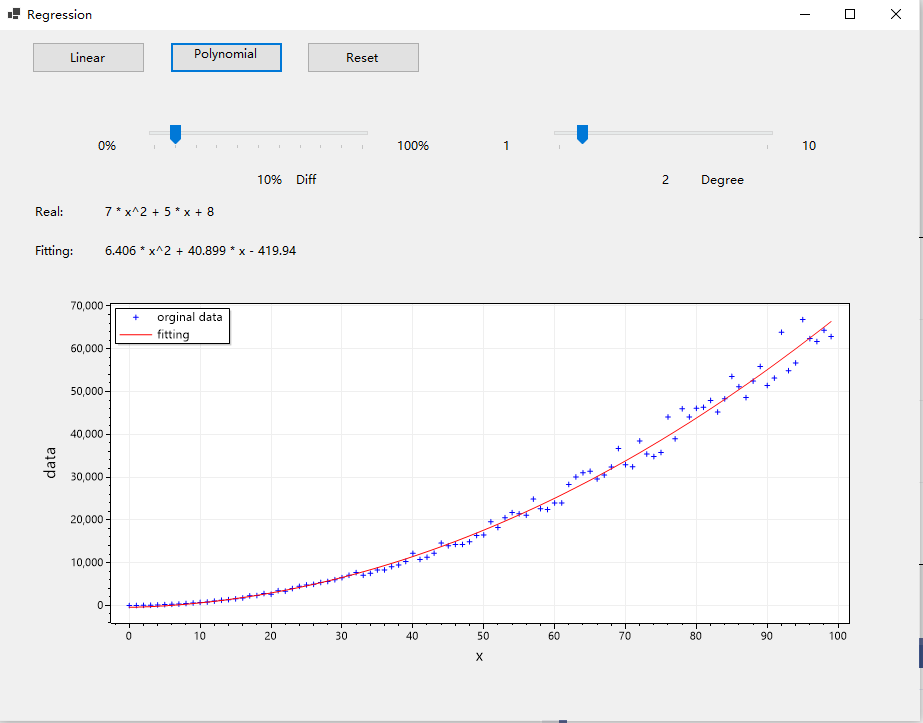
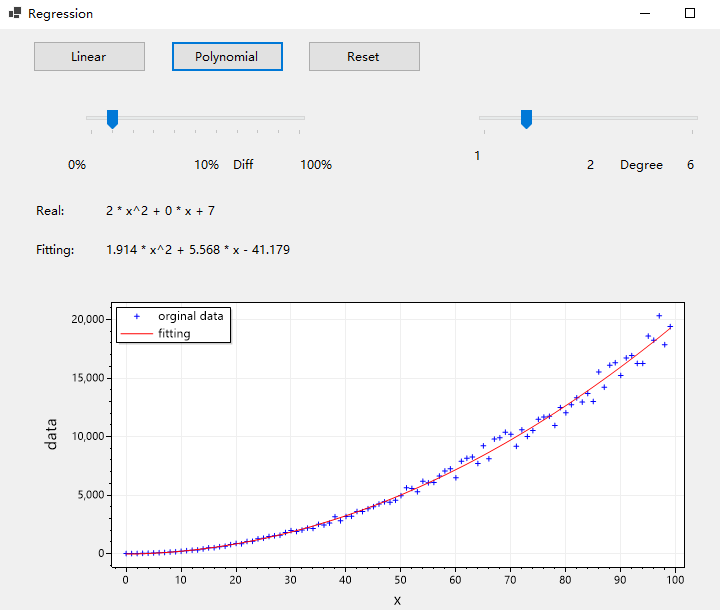
small image

diff --git a/DotNetStatics/Form1.Designer.cs b/DotNetStatics/Form1.Designer.cs
@@ -55,7 +55,7 @@
             this.formsPlot1.Location = new System.Drawing.Point(34, 251);
             this.formsPlot1.Margin = new System.Windows.Forms.Padding(4, 3, 4, 3);
             this.formsPlot1.Name = "formsPlot1";
-            this.formsPlot1.Size = new System.Drawing.Size(839, 392);
+            this.formsPlot1.Size = new System.Drawing.Size(673, 337);
             this.formsPlot1.TabIndex = 0;
             // 
             // BtnPolynomialRegression
@@ -64,7 +64,7 @@
             this.BtnPolynomialRegression.Name = "BtnPolynomialRegression";
             this.BtnPolynomialRegression.Size = new System.Drawing.Size(113, 31);
             this.BtnPolynomialRegression.TabIndex = 1;
-            this.BtnPolynomialRegression.Text = "Polynomial regression";
+            this.BtnPolynomialRegression.Text = "Polynomial";
             this.BtnPolynomialRegression.UseVisualStyleBackColor = true;
             this.BtnPolynomialRegression.Click += new System.EventHandler(this.BtnPolynomialRegression_Click);
             // 
@@ -91,7 +91,7 @@
             // LblMaxDiff
             // 
             this.LblMaxDiff.AutoSize = true;
-            this.LblMaxDiff.Location = new System.Drawing.Point(256, 141);
+            this.LblMaxDiff.Location = new System.Drawing.Point(192, 127);
             this.LblMaxDiff.Name = "LblMaxDiff";
             this.LblMaxDiff.Size = new System.Drawing.Size(33, 17);
             this.LblMaxDiff.TabIndex = 4;
@@ -99,7 +99,7 @@
             // 
             // trackBar1
             // 
-            this.trackBar1.Location = new System.Drawing.Point(143, 93);
+            this.trackBar1.Location = new System.Drawing.Point(79, 79);
             this.trackBar1.Maximum = 100;
             this.trackBar1.Name = "trackBar1";
             this.trackBar1.Size = new System.Drawing.Size(235, 45);
@@ -112,7 +112,7 @@
             // label1
             // 
             this.label1.AutoSize = true;
-            this.label1.Location = new System.Drawing.Point(97, 107);
+            this.label1.Location = new System.Drawing.Point(66, 127);
             this.label1.Name = "label1";
             this.label1.Size = new System.Drawing.Size(26, 17);
             this.label1.TabIndex = 6;
@@ -121,7 +121,7 @@
             // label2
             // 
             this.label2.AutoSize = true;
-            this.label2.Location = new System.Drawing.Point(396, 107);
+            this.label2.Location = new System.Drawing.Point(298, 127);
             this.label2.Name = "label2";
             this.label2.Size = new System.Drawing.Size(40, 17);
             this.label2.TabIndex = 7;
@@ -166,7 +166,7 @@
             // label4
             // 
             this.label4.AutoSize = true;
-            this.label4.Location = new System.Drawing.Point(295, 141);
+            this.label4.Location = new System.Drawing.Point(231, 127);
             this.label4.Name = "label4";
             this.label4.Size = new System.Drawing.Size(28, 17);
             this.label4.TabIndex = 12;
@@ -175,7 +175,7 @@
             // label6
             // 
             this.label6.AutoSize = true;
-            this.label6.Location = new System.Drawing.Point(700, 141);
+            this.label6.Location = new System.Drawing.Point(618, 127);
             this.label6.Name = "label6";
             this.label6.Size = new System.Drawing.Size(51, 17);
             this.label6.TabIndex = 17;
@@ -184,16 +184,16 @@
             // label7
             // 
             this.label7.AutoSize = true;
-            this.label7.Location = new System.Drawing.Point(801, 107);
+            this.label7.Location = new System.Drawing.Point(685, 127);
             this.label7.Name = "label7";
-            this.label7.Size = new System.Drawing.Size(22, 17);
+            this.label7.Size = new System.Drawing.Size(15, 17);
             this.label7.TabIndex = 16;
-            this.label7.Text = "10";
+            this.label7.Text = "6";
             // 
             // label8
             // 
             this.label8.AutoSize = true;
-            this.label8.Location = new System.Drawing.Point(502, 107);
+            this.label8.Location = new System.Drawing.Point(472, 118);
             this.label8.Name = "label8";
             this.label8.Size = new System.Drawing.Size(15, 17);
             this.label8.TabIndex = 15;
@@ -202,19 +202,20 @@
             // trackBar2
             // 
             this.trackBar2.LargeChange = 1;
-            this.trackBar2.Location = new System.Drawing.Point(548, 93);
+            this.trackBar2.Location = new System.Drawing.Point(472, 79);
+            this.trackBar2.Maximum = 6;
             this.trackBar2.Minimum = 1;
             this.trackBar2.Name = "trackBar2";
             this.trackBar2.Size = new System.Drawing.Size(235, 45);
             this.trackBar2.TabIndex = 14;
             this.trackBar2.TickFrequency = 10;
-            this.trackBar2.Value = 5;
+            this.trackBar2.Value = 2;
             this.trackBar2.Scroll += new System.EventHandler(this.trackBar2_Scroll);
             // 
             // LblMaxDegree
             // 
             this.LblMaxDegree.AutoSize = true;
-            this.LblMaxDegree.Location = new System.Drawing.Point(661, 141);
+            this.LblMaxDegree.Location = new System.Drawing.Point(585, 127);
             this.LblMaxDegree.Name = "LblMaxDegree";
             this.LblMaxDegree.Size = new System.Drawing.Size(15, 17);
             this.LblMaxDegree.TabIndex = 13;
@@ -224,7 +225,7 @@
             // 
             this.AutoScaleDimensions = new System.Drawing.SizeF(7F, 17F);
             this.AutoScaleMode = System.Windows.Forms.AutoScaleMode.Font;
-            this.ClientSize = new System.Drawing.Size(921, 690);
+            this.ClientSize = new System.Drawing.Size(760, 600);
             this.Controls.Add(this.label6);
             this.Controls.Add(this.label7);
             this.Controls.Add(this.label8);
